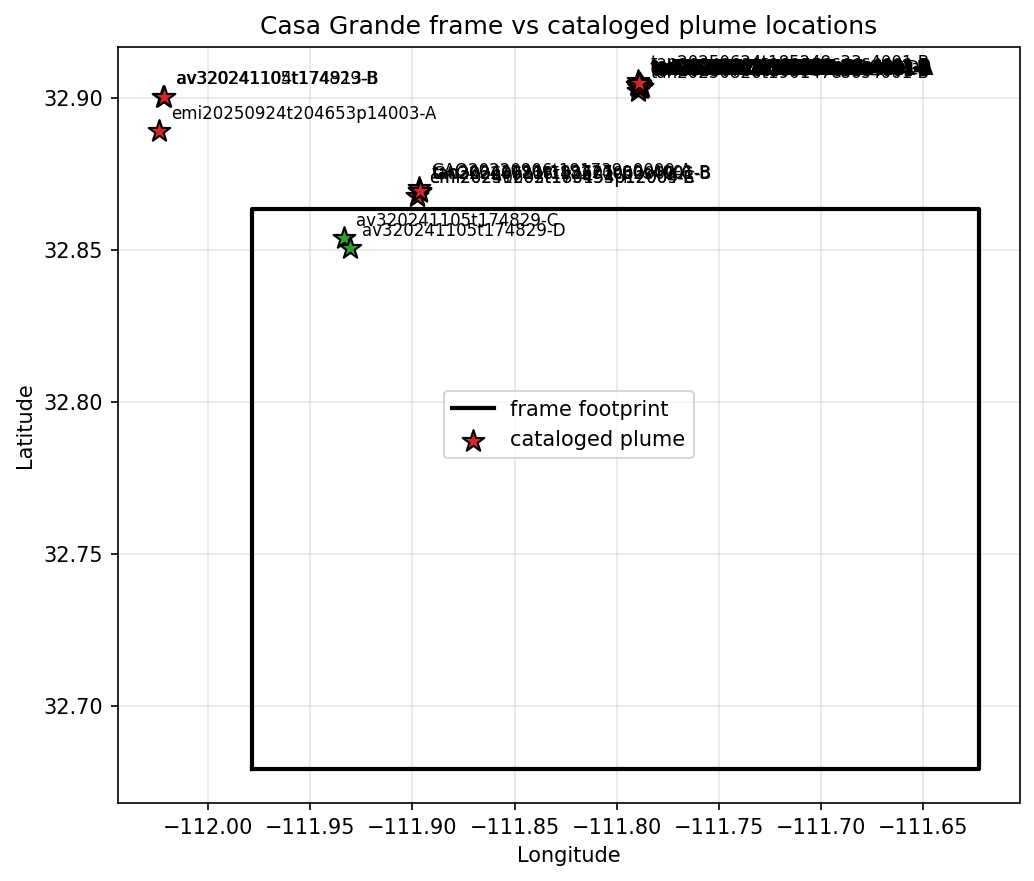
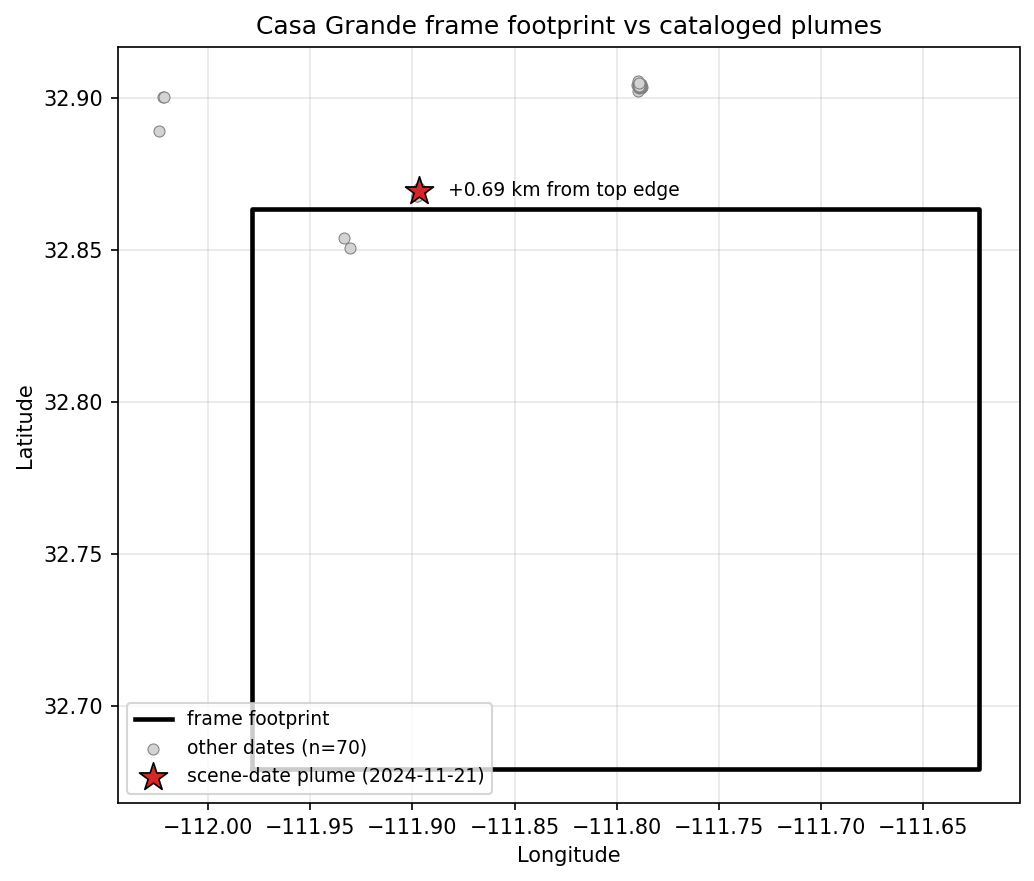
Note that notebooks 04-05 are superseded and should not be run

diff --git a/README.md b/README.md
@@ -202,6 +202,17 @@ lag-optimized correlation), and `mask_radius()` — exist only as notebook cells
 and `grow()` is defined twice. They are not importable, not tested, and not
 reusable. They belong in `tanager_diagnostics.py`; see Open questions.
 
+## Note on notebooks 03-05
+
+Notebooks 04 and 05 are superseded and should not be run. They quantify and
+attribute detections that notebook 06 shows to be carbonate soil rather than
+methane, and notebook 05's EPA endpoint returns an empty body that the parser
+reads as "no facilities found". Their outputs (29.5 kg/hr across four Permian
+clusters, and the associated attribution table) appear in the paper only as the
+false positive described in §4.4.
+
+Current pipeline: 03 (detection) → 06 (validation) → 07 (positive control).
+
 ## Reproducing
 
 ```bash
